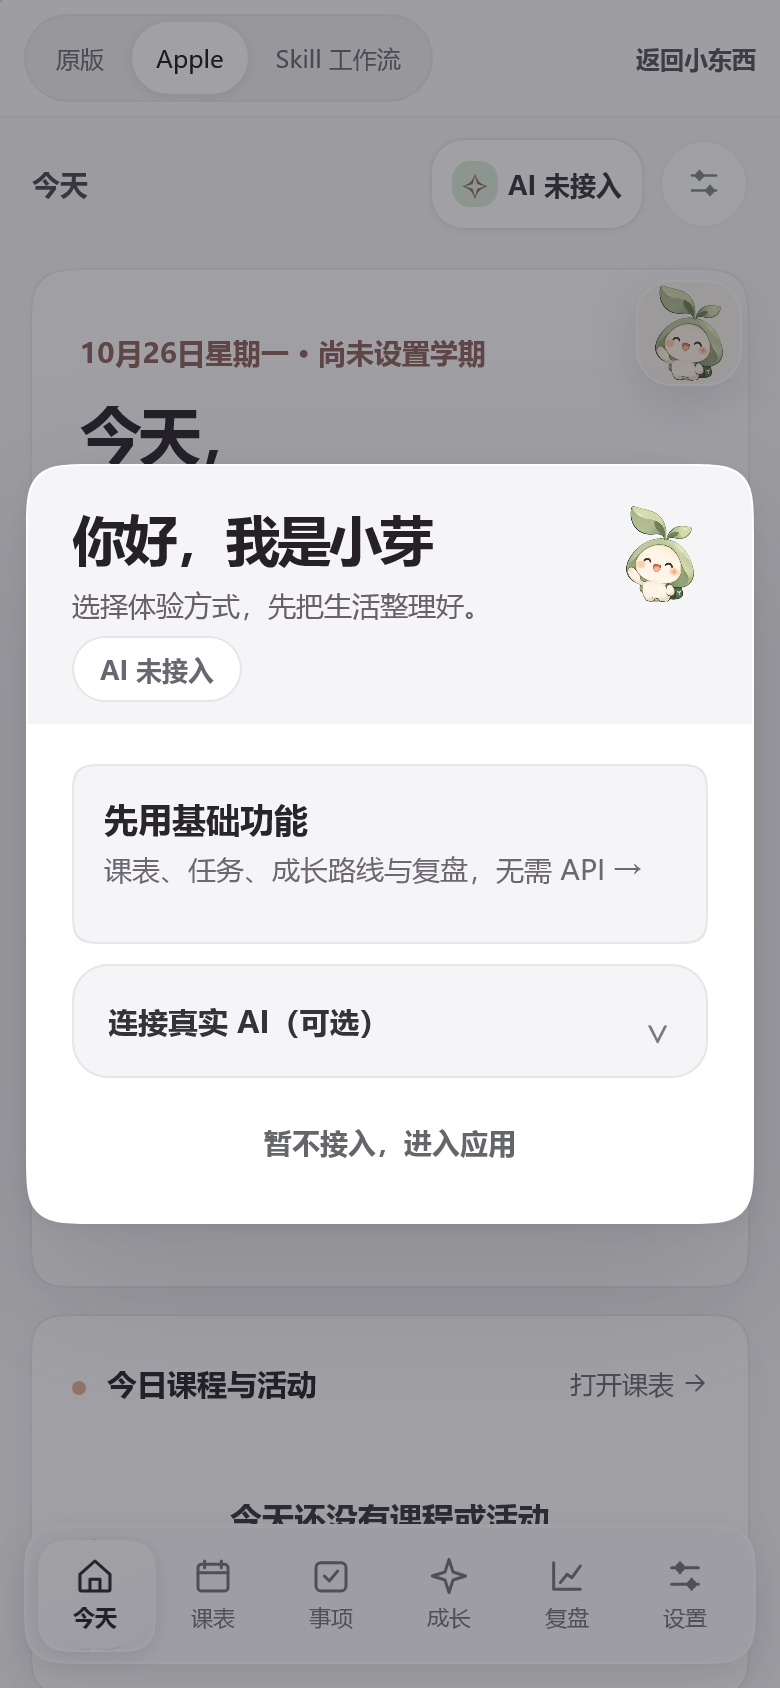
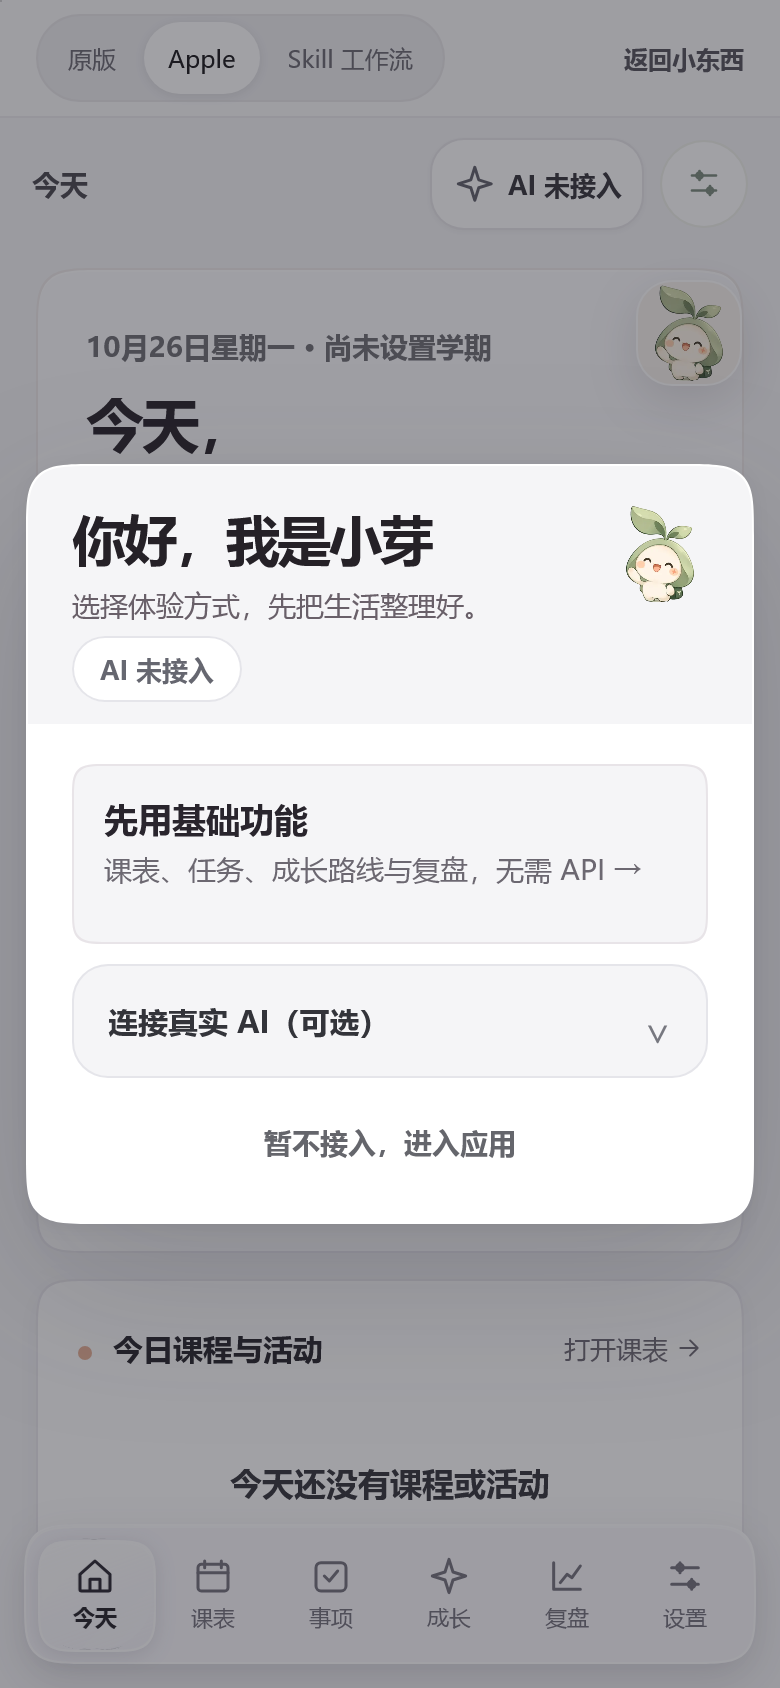
Reduce XiaoYa first-run GPU blur and verify WebKit sheet

diff --git a/little-works/xiaoya-apple/index.html b/little-works/xiaoya-apple/index.html
@@ -13,7 +13,7 @@
 <link rel="stylesheet" href="./xiaoya-chat.css?v=20261023uix4"/>
 <link rel="stylesheet" href="./comparison.css?v=20261025"/>
 <link rel="stylesheet" href="./redesign.css?v=20261025r2"/>
-<link rel="stylesheet" href="./apple-next.css?v=20261026settings23"/>
+<link rel="stylesheet" href="./apple-next.css?v=20261026settings24"/>
 </head>
 <body class="design-apple">
 <nav class="comparison-nav" aria-label="小芽设计版本切换"><span class="comparison-title">小芽 · 设计对照</span><div class="comparison-links"><a href="https://ndshuge.github.io/xiaoya-lifelab/">原版</a><a href="../xiaoya-apple/" aria-current="page">Apple</a><a href="../xiaoya-studio/" >Skill 工作流</a></div><a class="comparison-back" href="../">返回小东西</a></nav>

diff --git a/little-works/xiaoya-apple/apple-next.css b/little-works/xiaoya-apple/apple-next.css
@@ -321,8 +321,8 @@ body.apple-next #xy-onboard .xy-dialog{box-shadow:0 2px 12px rgba(20,20,30,.04)}
    Preserve all real permission, CORS, cost and local-storage warnings. */
 body.apple-next #xy-onboard.xy-shade{
   background:rgba(32,30,40,.42)!important;
-  backdrop-filter:blur(20px) saturate(1.1)!important;
-  -webkit-backdrop-filter:blur(20px) saturate(1.1)!important;
+  backdrop-filter:blur(8px) saturate(1.06)!important;
+  -webkit-backdrop-filter:blur(8px) saturate(1.06)!important;
   padding:24px!important;
 }
 body.apple-next #xy-onboard .xy-dialog{

diff --git a/little-works/xiaoya-apple/DESIGN_AUDIT_APPLE_NEXT.md b/little-works/xiaoya-apple/DESIGN_AUDIT_APPLE_NEXT.md
@@ -38,3 +38,4 @@
 - Positive gates: project static **11/11**; 52/52 three-variant gallery regression previously, now rerun with exit 0; `qa-apple-next.cjs` latest success with 4 Edge widths, genuine Playwright WebKit touch/content-copy SVG optics across 320/390/768, 0 JavaScript errors, 0 horizontal overflow, user-triggered optional AI form expansion, onboarding and Settings details, no 10px functional text, 24 numeric table cells right aligned. Record `qa-apple-v2-report.json` is local test evidence, not a certificate of iPhone FPS.
 - Taste inspector `inspect.mjs --app` re-run against actual 5416 local server: **3 FAIL, 1 WARN**, not PASS. FAIL [button-fx] refers to raised/glass interactive controls; FAIL [heavy-shadow] is the actual, active modal/sheet overlay (not ordinary background card); FAIL [covered-text] occurs while the first-run modal intentionally obscures the underlying heading; WARN [app-title-size] notes mobile 29px greeting, retained as deliberate iOS large-title choice. Other pre-existing gradient/emoji/tiny-text/low-contrast/icon-chip/numeric-edge issues were removed. These explicit exceptions require human review, not automatic approval.
 - Deployment: **LOCAL CANDIDATE** in `xiaoya-optics-integration-20261026`; production GitHub Pages remains older, and concurrent remote main may advance. No overwrite or force push. Real iPhone Safari tactile/FPS testing and **ART_APPROVED remain PENDING**.
+- Final compositing refinement: reduced the fullscreen onboarding backdrop blur from 20px to 8px and saturation 1.06, avoiding needless GPU-heavy full-screen postprocessing on mobile while keeping a dimmed modal. Tested real Playwright WebKit 320/390/768px: computed `backdrop-filter: blur(8px) saturate(1.06)`, zero horizontal overflow, optional AI settings expand/collapse and base-mode dismissal all PASS. This is not a measured iPhone Safari FPS result.
